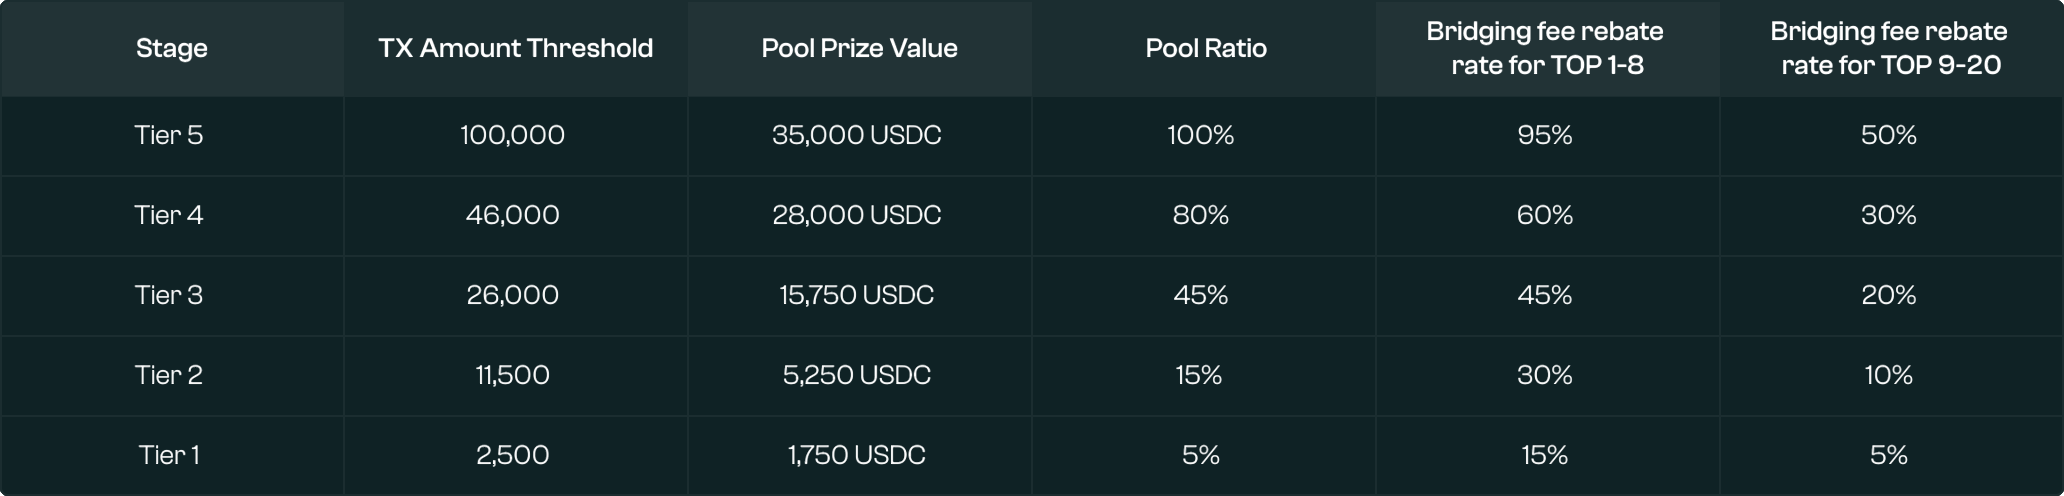
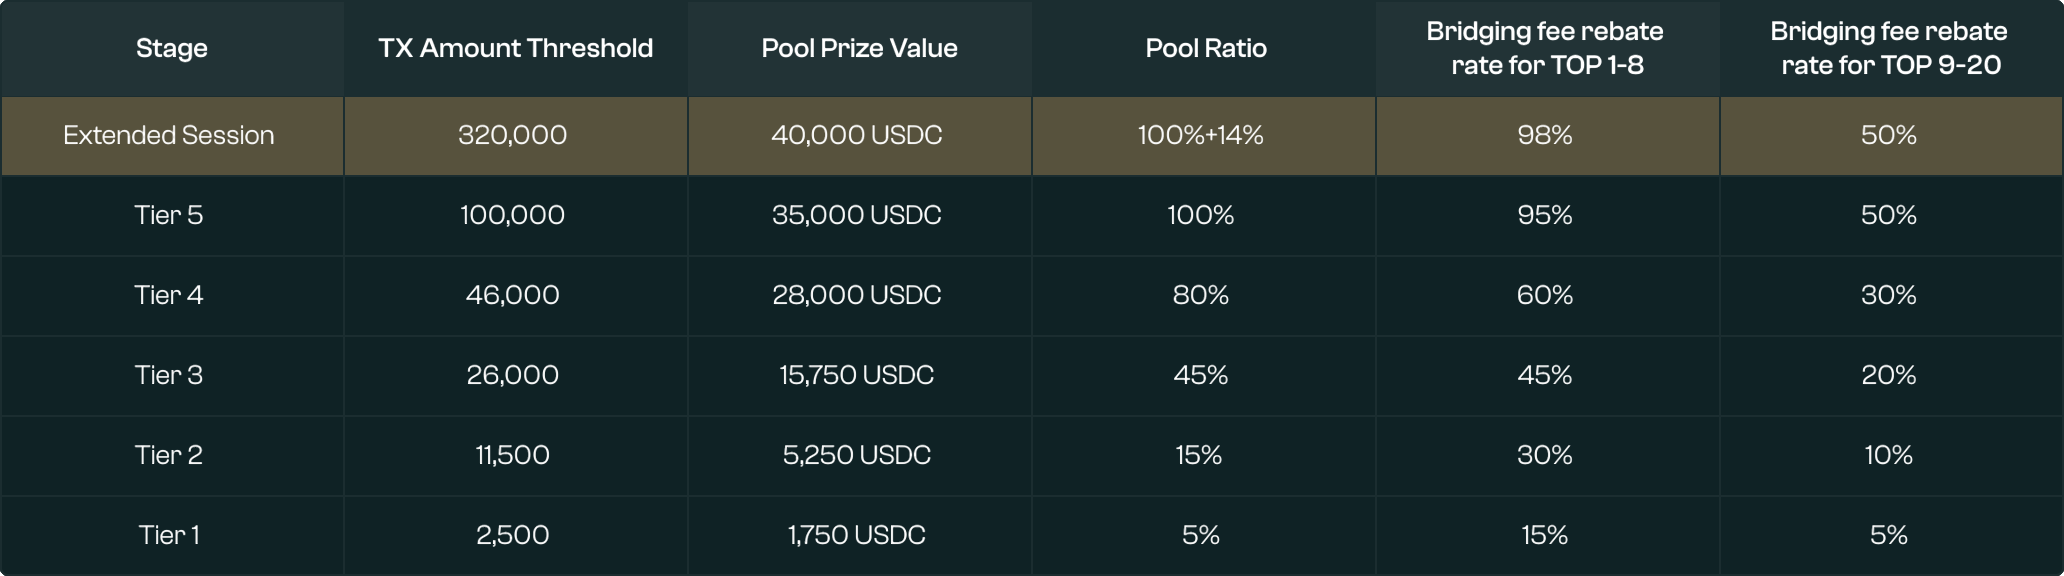
fix: prizsv5 Extended Session

diff --git a/src/views/prizes/components/PrizesPool.vue b/src/views/prizes/components/PrizesPool.vue
@@ -37,10 +37,13 @@
                 v-for="item in group"
                 :key="item.reward"
               >
-              <svg-icon iconName="lock"></svg-icon>
+                <svg-icon v-if="item.isLock" iconName="lock"></svg-icon>
+              </div>
+              <div v-if="isLast" class="progress-skeleton">
+                <div class="skeleton"></div>
               </div>
               <div class="progress" :style="`width: ${ratio}%;`">
-                <div class="skeleton"></div>
+                <div v-if="!isLast" class="skeleton"></div>
               </div>
             </div>
           </div>
@@ -76,13 +79,20 @@ export default {
 
   data() {
     return {
-      group: [
+    }
+  },
+  computed: {
+    group() {
+      const tx =this.totalTx
+     return [
         {
           tx: '0~2,499 Tx',
           reward: '',
           range: [0, 2499],
           bridge50Fee: 0,
           bridge100Fee: 0,
+          isLock: tx < 0,
+          isPromotion: tx>0,
         },
         {
           tx: '2,500~11,499 Tx',
@@ -90,6 +100,8 @@ export default {
           range: [2500, 11499],
           bridge50Fee: 5,
           bridge100Fee: 15,
+          isLock: tx < 2500,
+          isPromotion: tx>2500,
         },
         {
           tx: '11,500~25,999 Tx',
@@ -97,6 +109,8 @@ export default {
           range: [11500, 25999],
           bridge50Fee: 10,
           bridge100Fee: 30,
+          isLock: tx < 11500,
+          isPromotion: tx>11500,
         },
         {
           tx: '26,000~45,999 Tx',
@@ -104,6 +118,8 @@ export default {
           range: [26000, 45999],
           bridge50Fee: 20,
           bridge100Fee: 45,
+          isLock: tx < 26000,
+          isPromotion: tx>26000,
         },
         {
           tx: '46,000~99,999 Tx',
@@ -111,18 +127,32 @@ export default {
           range: [46000, 99999],
           bridge50Fee: 30,
           bridge100Fee: 60,
+          isLock: tx < 46000,
+          isPromotion: tx>46000,
         },
         {
-          tx: '≥100,000 Tx',
+          tx: '100,000~319,999 Tx',
           reward: '$35,000',
-          range: [100000, 999999],
+          range: [100000, 319999],
           bridge50Fee: 50,
           bridge100Fee: 95,
+          bridgeTop3Fee: 95,
+          isLock: tx < 100000,
+          isPromotion: tx>100000,
         },
-      ]
-    }
-  },
-  computed: {
+        {
+          tx: '≥320,000 Tx',
+          reward: '$40,000',
+          range: [320000, 999999],
+          bridge50Fee: 50,
+          bridge100Fee: 95,
+          bridgeTop3Fee: 98,
+          isColor: true,
+          isLock: tx<320000,
+          isPromotion: false,
+        },
+      ]  
+    },
     totalTx() {
       const tx = Number(prizesTotaltx.value) || 0
       return tx
@@ -133,24 +163,24 @@ export default {
     },
     currentPool() {
       const list = this.group
-      const tx = this.totalTx
-      if (tx >= 120000) return list[list.length - 1]?.reward || '$0'
       const group = list.filter((item) => {
-        const [first, last] = item.range
-        return first <= tx && last >= tx
+        return !item.isPromotion
       })?.[0]
       return group?.reward
     },
     totalPool() {
       return this.currentPool || "To be unlocked"
     },
+    isLast() {
+      const lastTx = this.group[this.group.length -1]?.range[0]
+      const tx = this.totalTx
+      return tx > lastTx
+    },
     ratio() {
       let ratioAmount = 0
       const list = this.group
-      const tx = this.totalTx
       list.forEach((item) => {
-        const [first, last] = item.range
-        if (first <= tx) {
+        if (item.isPromotion) {
           ratioAmount += 100 / this.group.length
         } else {
           ratioAmount += 0
@@ -271,7 +301,8 @@ export default {
             border-radius: 999px;
             background: linear-gradient(179.63deg, rgba(239, 47, 45, 0.04) 34.849%,rgba(255, 102, 101, 0.04) 57.408%);            
             backdrop-filter: blur(156px);
-            background-color: rgb(15, 34, 37);
+            // background-color: rgb(15, 34, 37);
+            background-color: #f3ba2f;
             display: flex;
             justify-content: space-between;
             align-items: center;
@@ -279,11 +310,34 @@ export default {
             position: relative;
             top: 0;
             left: 0;
+            .progress-skeleton {
+              width: 100%;
+              height: 32px;
+              position: absolute;
+              top: 0;
+              left: 0;
+              z-index: 10;
+              .skeleton {
+                width: 100%;
+                height: 100%;
+                background-image: linear-gradient(
+                  90deg,
+                  rgba(#fff, 0),
+                  rgba(#fff, 0.4),
+                  rgba(#fff, 0)
+                );
+              background-size: 40px 100%; // width of the shine
+              background-repeat: no-repeat; // No need to repeat the shine effect
+              background-position: left -40px top 0; // Place shine on the left side, with offset on the left based on the width of the shine - see background-size
+              animation: shine 2.1s ease infinite;
+             }
+
+            }
             .progress-box-item {
               width: 100%;
               height: 100%;
               flex: 1;
-              border-right: 1px solid #414F51;
+              // border-right: 1px solid #414F51;
               display: flex;
               justify-content: center;
               align-items: center;
@@ -291,6 +345,7 @@ export default {
                 width: 20px;
                 height: 20px;
               }
+              
             }
 
             .progress {
@@ -317,7 +372,7 @@ export default {
                 background-size: 40px 100%; // width of the shine
                 background-repeat: no-repeat; // No need to repeat the shine effect
                 background-position: left -40px top 0; // Place shine on the left side, with offset on the left based on the width of the shine - see background-size
-                animation: shine 2s ease infinite;
+                animation: shine 1.8s ease 0.3s infinite;
               }
             }
           }
@@ -369,6 +424,7 @@ export default {
             font-size: 20px;
             font-family: GeneralSans-SemiBold;
             color: #ff4f4f;
+            white-space: nowrap;
           }
         }
       }

diff --git a/src/views/prizes/components/PrizesRank.vue b/src/views/prizes/components/PrizesRank.vue
@@ -97,13 +97,20 @@ export default {
   data() {
     return {
       current: 1,
-      poolList: [
+    }
+  },
+  computed: {
+    poolList() {
+      const tx =this.totalTx
+     return [
         {
           tx: '0~2,499 Tx',
           reward: '',
           range: [0, 2499],
           bridge50Fee: 0,
           bridge100Fee: 0,
+          isLock: tx < 0,
+          isPromotion: tx>0,
         },
         {
           tx: '2,500~11,499 Tx',
@@ -111,6 +118,8 @@ export default {
           range: [2500, 11499],
           bridge50Fee: 5,
           bridge100Fee: 15,
+          isLock: tx < 2500,
+          isPromotion: tx>2500,
         },
         {
           tx: '11,500~25,999 Tx',
@@ -118,6 +127,8 @@ export default {
           range: [11500, 25999],
           bridge50Fee: 10,
           bridge100Fee: 30,
+          isLock: tx < 11500,
+          isPromotion: tx>11500,
         },
         {
           tx: '26,000~45,999 Tx',
@@ -125,6 +136,8 @@ export default {
           range: [26000, 45999],
           bridge50Fee: 20,
           bridge100Fee: 45,
+          isLock: tx < 26000,
+          isPromotion: tx>26000,
         },
         {
           tx: '46,000~99,999 Tx',
@@ -132,18 +145,32 @@ export default {
           range: [46000, 99999],
           bridge50Fee: 30,
           bridge100Fee: 60,
+          isLock: tx < 46000,
+          isPromotion: tx>46000,
         },
         {
-          tx: '≥100,000 Tx',
+          tx: '100,000~319,999 Tx',
           reward: '$35,000',
-          range: [100000, 999999],
+          range: [100000, 319999],
           bridge50Fee: 50,
           bridge100Fee: 95,
+          bridgeTop3Fee: 95,
+          isLock: tx < 100000,
+          isPromotion: tx>100000,
         },
-      ]
-    }
-  },
-  computed: {
+        {
+          tx: '≥320,000 Tx',
+          reward: '$40,000',
+          range: [320000, 999999],
+          bridge50Fee: 50,
+          bridge100Fee: 95,
+          bridgeTop3Fee: 98,
+          isColor: true,
+          isLock: tx<320000,
+          isPromotion: false,
+        },
+      ]  
+    },
     currentPool() {
       const list = this.poolList
       const tx = this.totalTx
@@ -300,7 +327,9 @@ export default {
       const fee = this.currentPool
       let bridgeFee = 0
       if (rank && rank <= 20) {
-        if (rank <= 8) {
+        if (rank <= 3) {
+          bridgeFee = fee?.bridgeTop3Fee
+        } else  if (rank <= 8) {
           bridgeFee = fee?.bridge100Fee
         } else {
           bridgeFee = fee?.bridge50Fee

diff --git a/src/views/prizes/components/PrizesTopBanner.vue b/src/views/prizes/components/PrizesTopBanner.vue
@@ -8,10 +8,13 @@
       </div>
     </div>
       <div class="group">
-        <div class="title orbiter-linear-text">$35,000 Prize Pool</div>
+        <div class="title orbiter-linear-text"><span class="chain orbiter-linear-text">Base</span> $40,000 prize pool</div>
       </div>
       <div class="group">
-        <div class="amount orbiter-linear-text"><span class="chain orbiter-linear-text">Base</span> Trading Frenzy</div>
+        <div class="amount orbiter-linear-text">
+          
+           Trading Frenzy Extended Session
+        </div>
       </div>
       <div class="group">
         <div class="time-card">
@@ -219,6 +222,13 @@ background: linear-gradient(206.24deg, rgba(255, 104, 104, 0.6) 9.711%,rgba(0, 8
         line-height: 1;
         font-family: GeneralSans-SemiBold;
         letter-spacing: 0px;
+        .chain {
+          background-image: linear-gradient(
+          to top,
+          rgb(0, 88, 255) 60%,
+          rgb(234, 242, 255)
+        );
+        }
       }
       .amount {
         margin-top: 16px;

diff --git a/src/views/prizes/components/PrizesRule.vue b/src/views/prizes/components/PrizesRule.vue
@@ -35,7 +35,7 @@ export default {
           ],
         },
         {
-          label:'2. How to share the up to 35,000 USDC prize pool?',
+          label:'2. How to share the up to 40,000 USDC prize pool?',
           text: [
             '- Complete <span class="orbiter_global_prizes_rule_tag">≥3 transactions </span> to qualify for a share of the prize pool.',
             '- <span class="orbiter_global_prizes_rule_tag">Prize Pool Breakdown:</span>',
